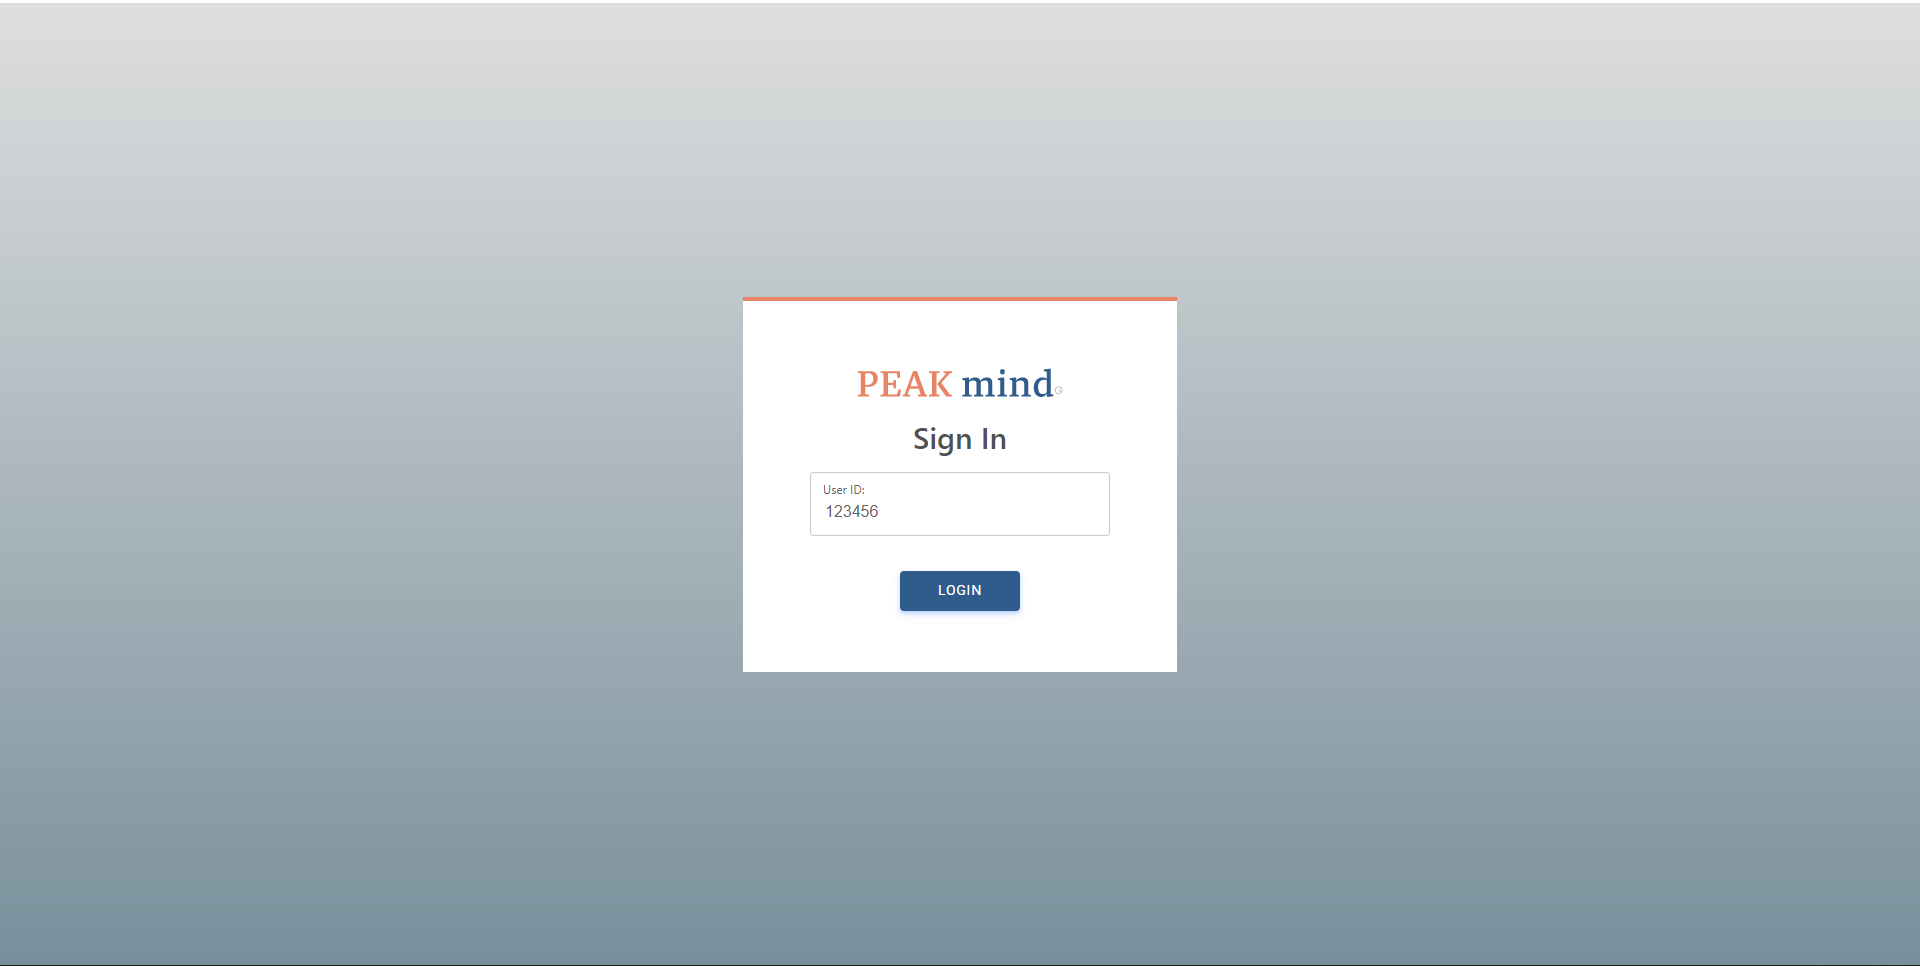
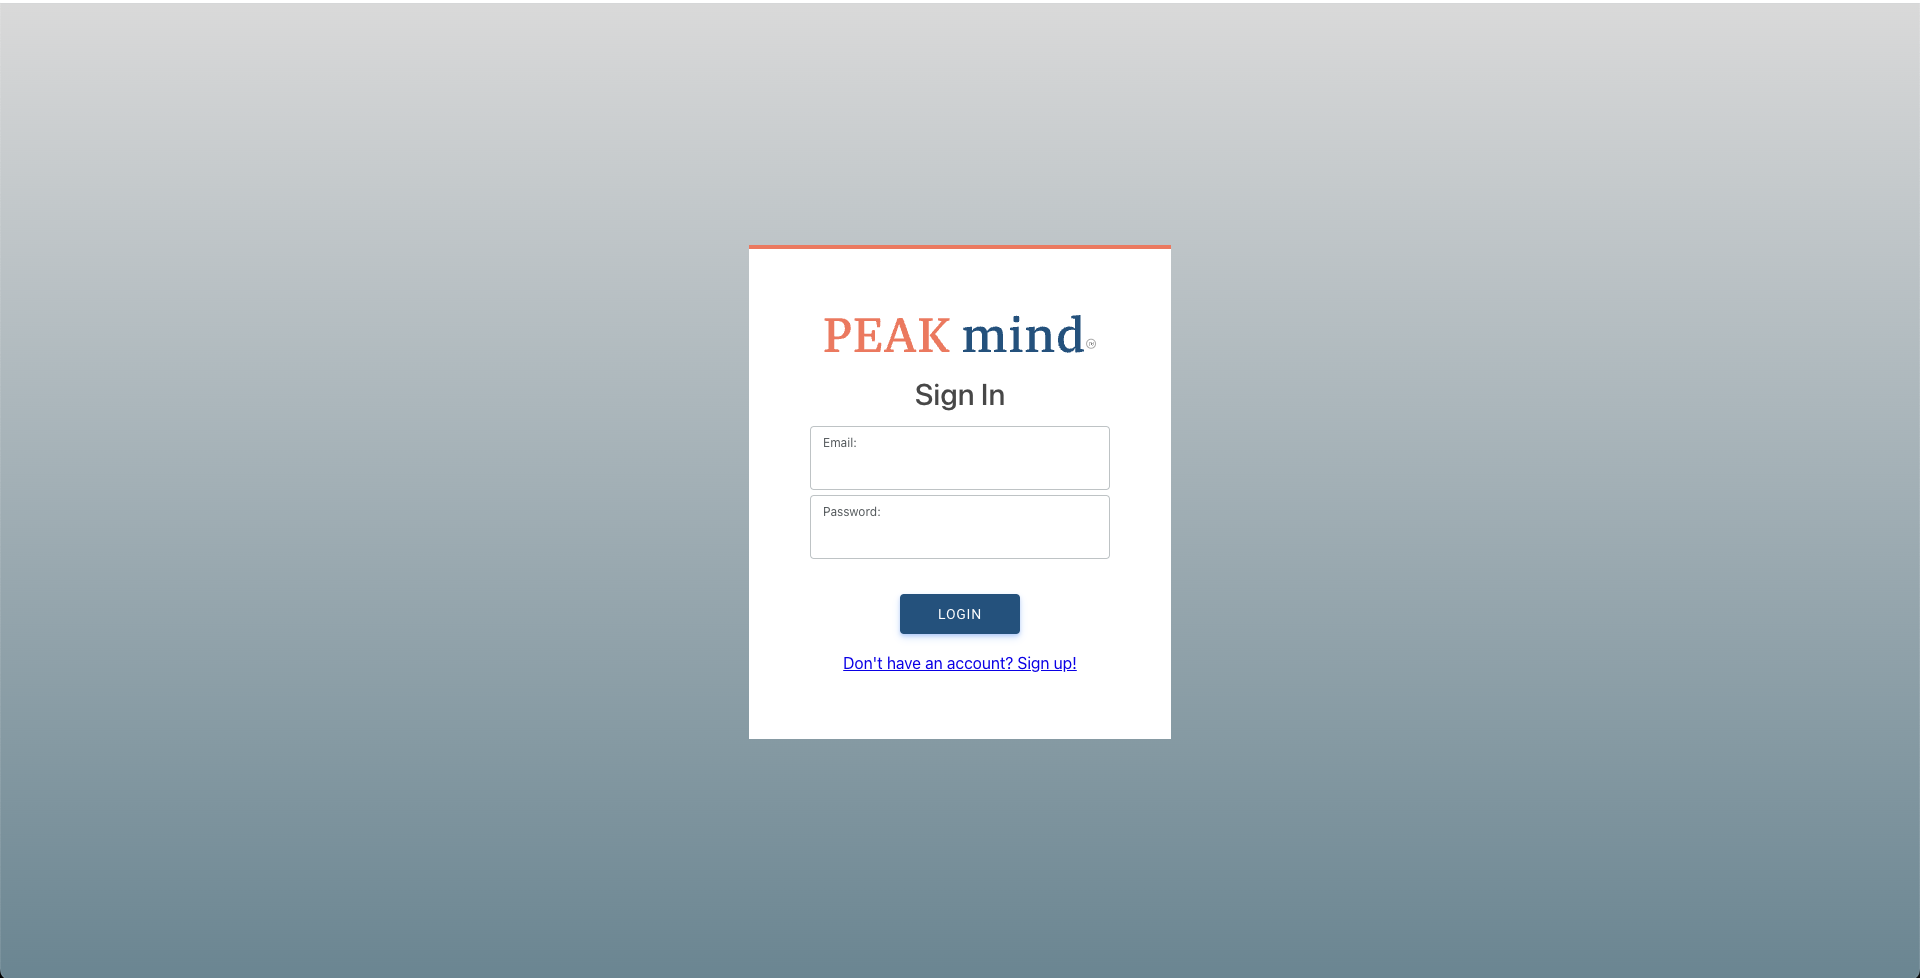
Update documentation for user with registration

diff --git a/Documentation/User.md b/Documentation/User.md
@@ -52,9 +52,13 @@ The primary use for this application is to display the data being collected from
 
 ## Login
 
-Users can access their datasets by entering the 6 digit Id used when submitting data through the Dashboard.
+Users can access their datasets by entering the email and password they created during registration.
 
 ![Login Screen](./images/WebLogin.png)
+
+To get to registration click the link under the "LOGIN" button and create an account using your email on this page.
+
+![Registration Screen](./images/WebRegister.png)
 
 ## Features
 
